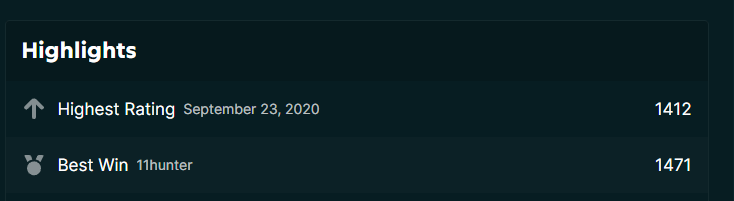
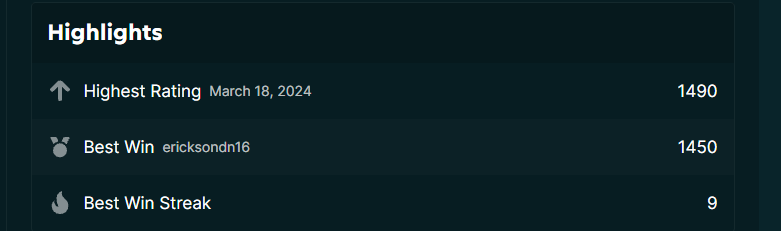
Update founder highlights to peak rapid rating of 1490

diff --git a/index.html b/index.html
@@ -37,14 +37,16 @@
                     knight moves to rated players chasing their next milestone.
                 </p>
                 <p>
-                    The club was started by DeVante Bush, who reached a peak chess.com rating of 1412 and earned his
-                    best win against a 1471-rated opponent.
+                    The club was started by DeVante Bush, who reached a peak chess.com rapid rating of 1490 in March
+                    2024 and earned his best win against a 1450-rated opponent.
                 </p>
             </div>
             <figure class="about-image">
+                <img src="images/chess-peak-win.png"
+                    alt="Chess.com game won by resignation that raised the founder's rapid rating to 1490">
                 <img src="images/chess-highlights.png"
-                    alt="Chess.com highlights showing a 1412 peak rating and a best win against a 1471-rated player">
-                <figcaption>Founder highlights from chess.com</figcaption>
+                    alt="Chess.com highlights showing a 1490 peak rapid rating, a best win against a 1450-rated player, and a 9-game win streak">
+                <figcaption>Founder's peak win and highlights from chess.com</figcaption>
             </figure>
         </section>
         <section id="schedule" class="schedule">

diff --git a/styles.css b/styles.css
@@ -109,6 +109,10 @@ body {
     box-shadow: 0 0.5rem 1.5rem rgba(0, 0, 0, 0.2);
 }
 
+.about-image img + img {
+    margin-top: 1rem;
+}
+
 .about-image figcaption {
     margin-top: 0.5rem;
     font-size: 0.875rem;
